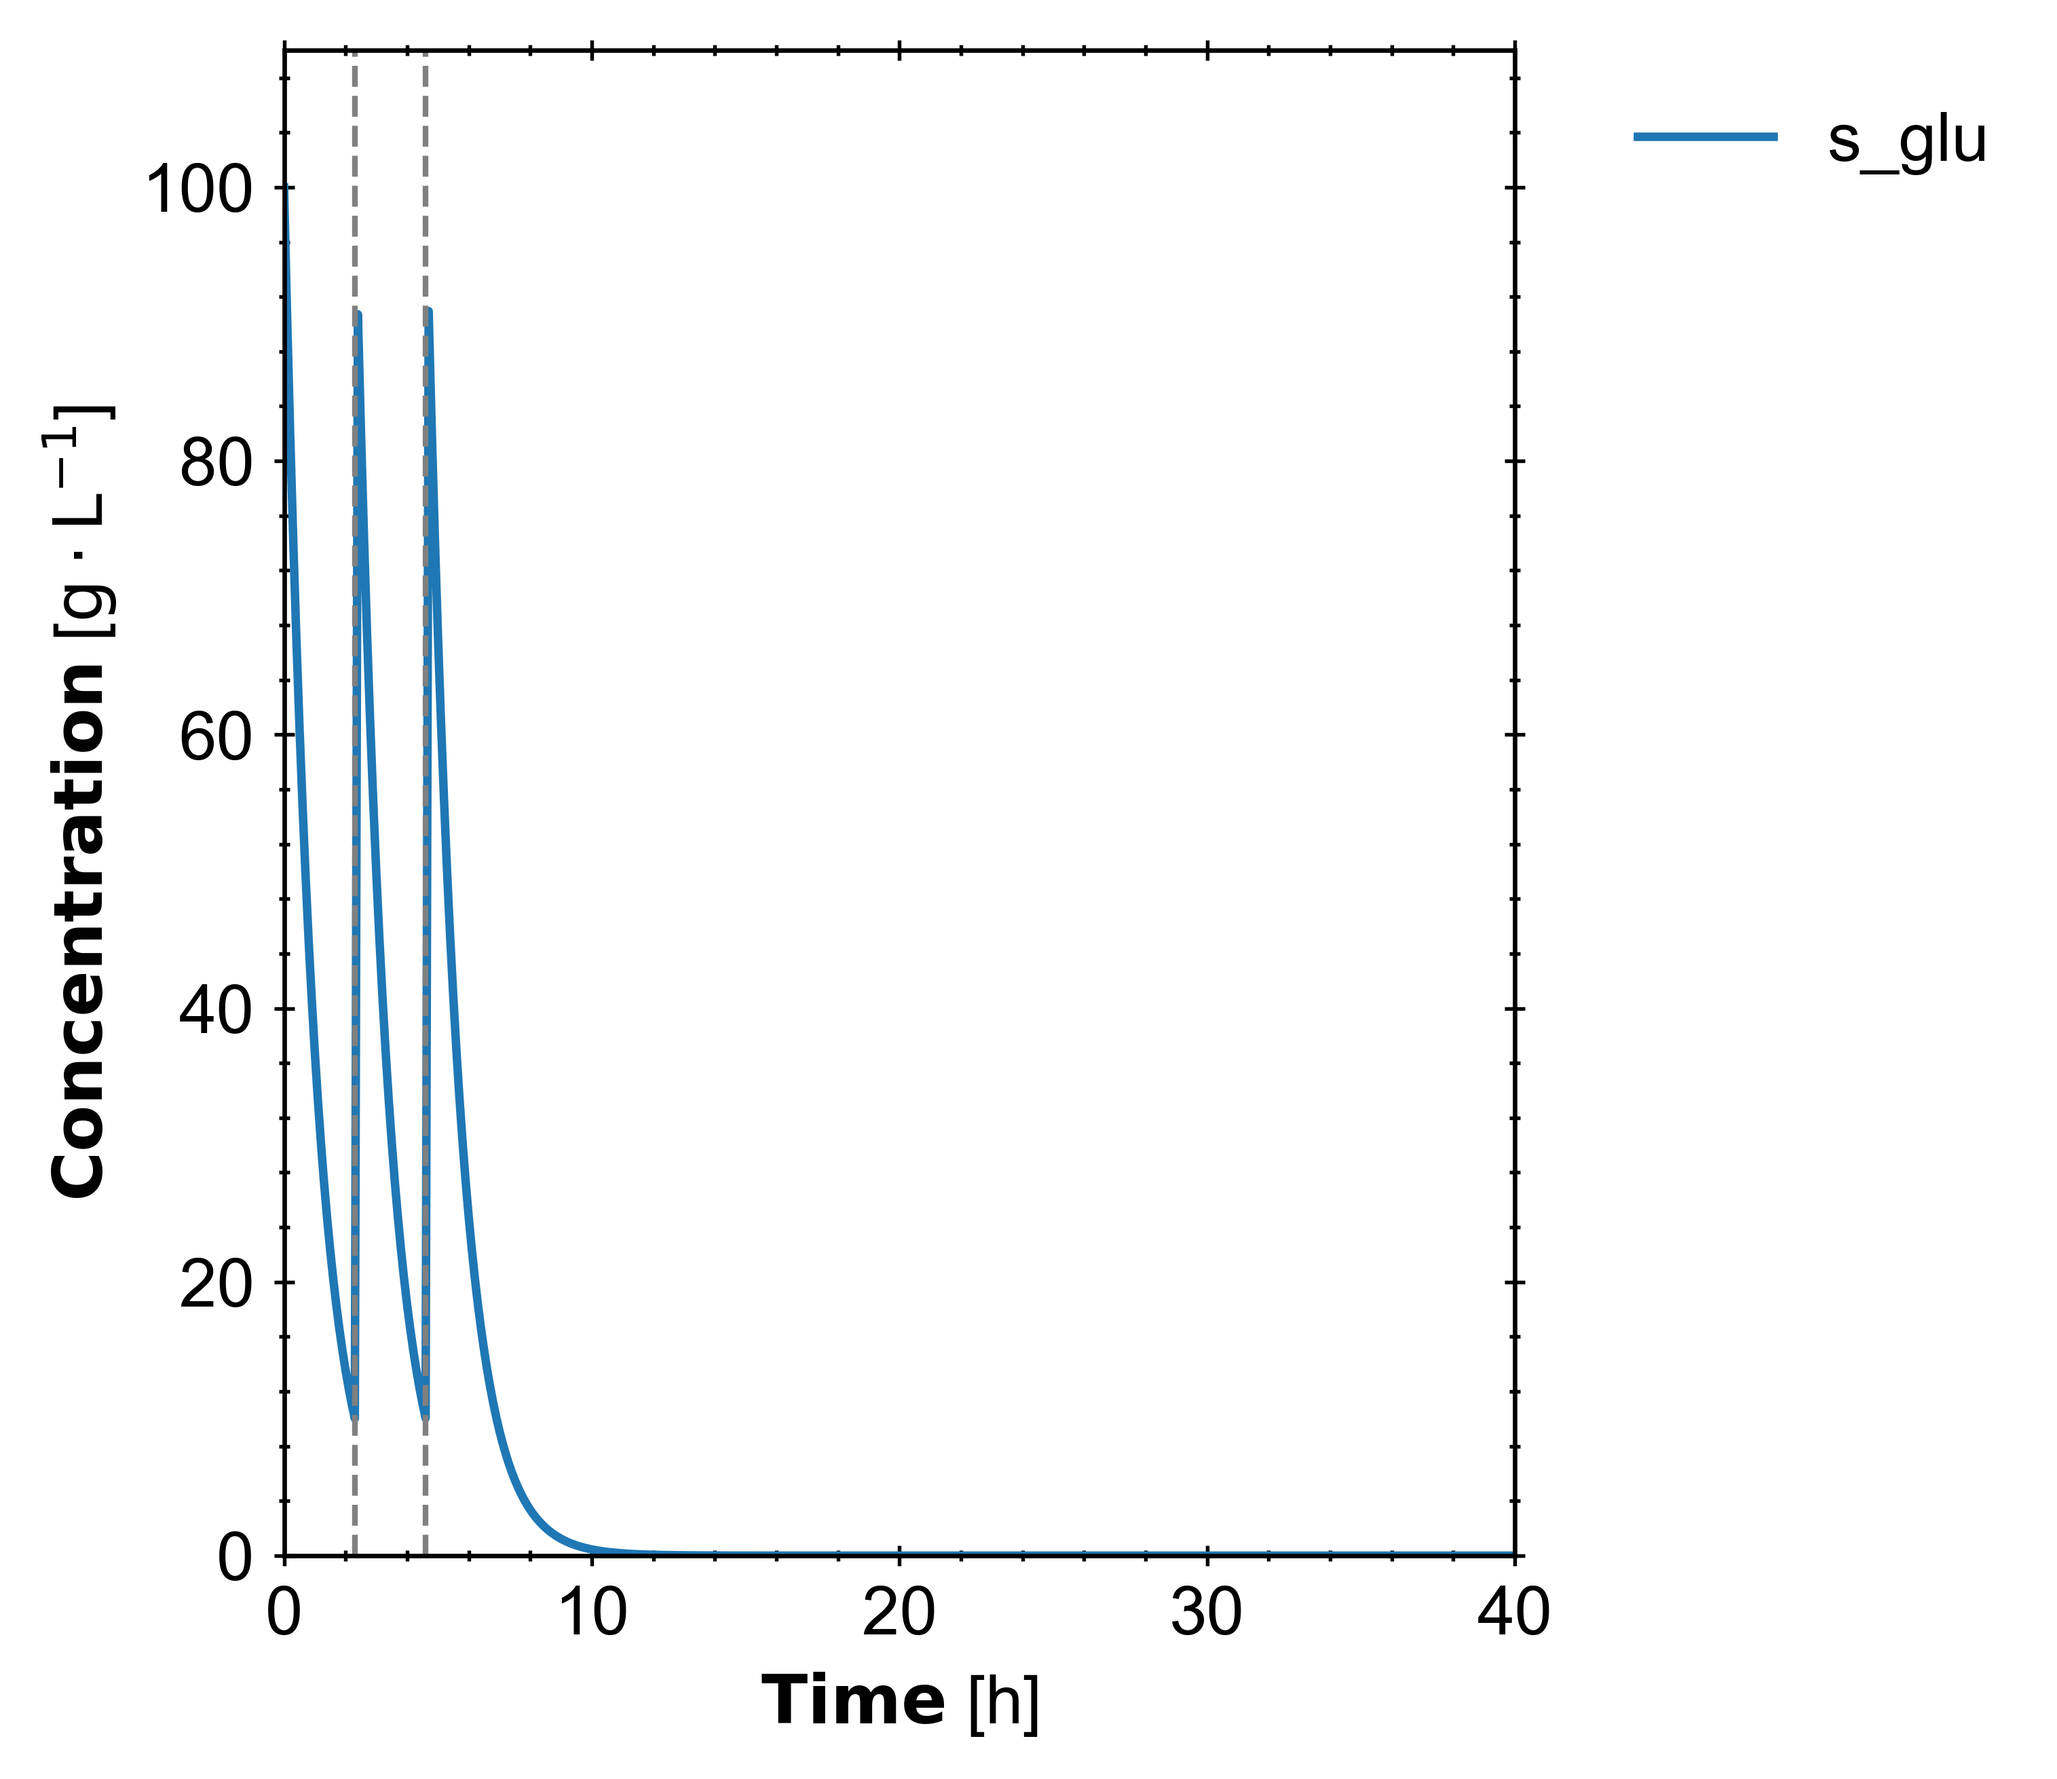
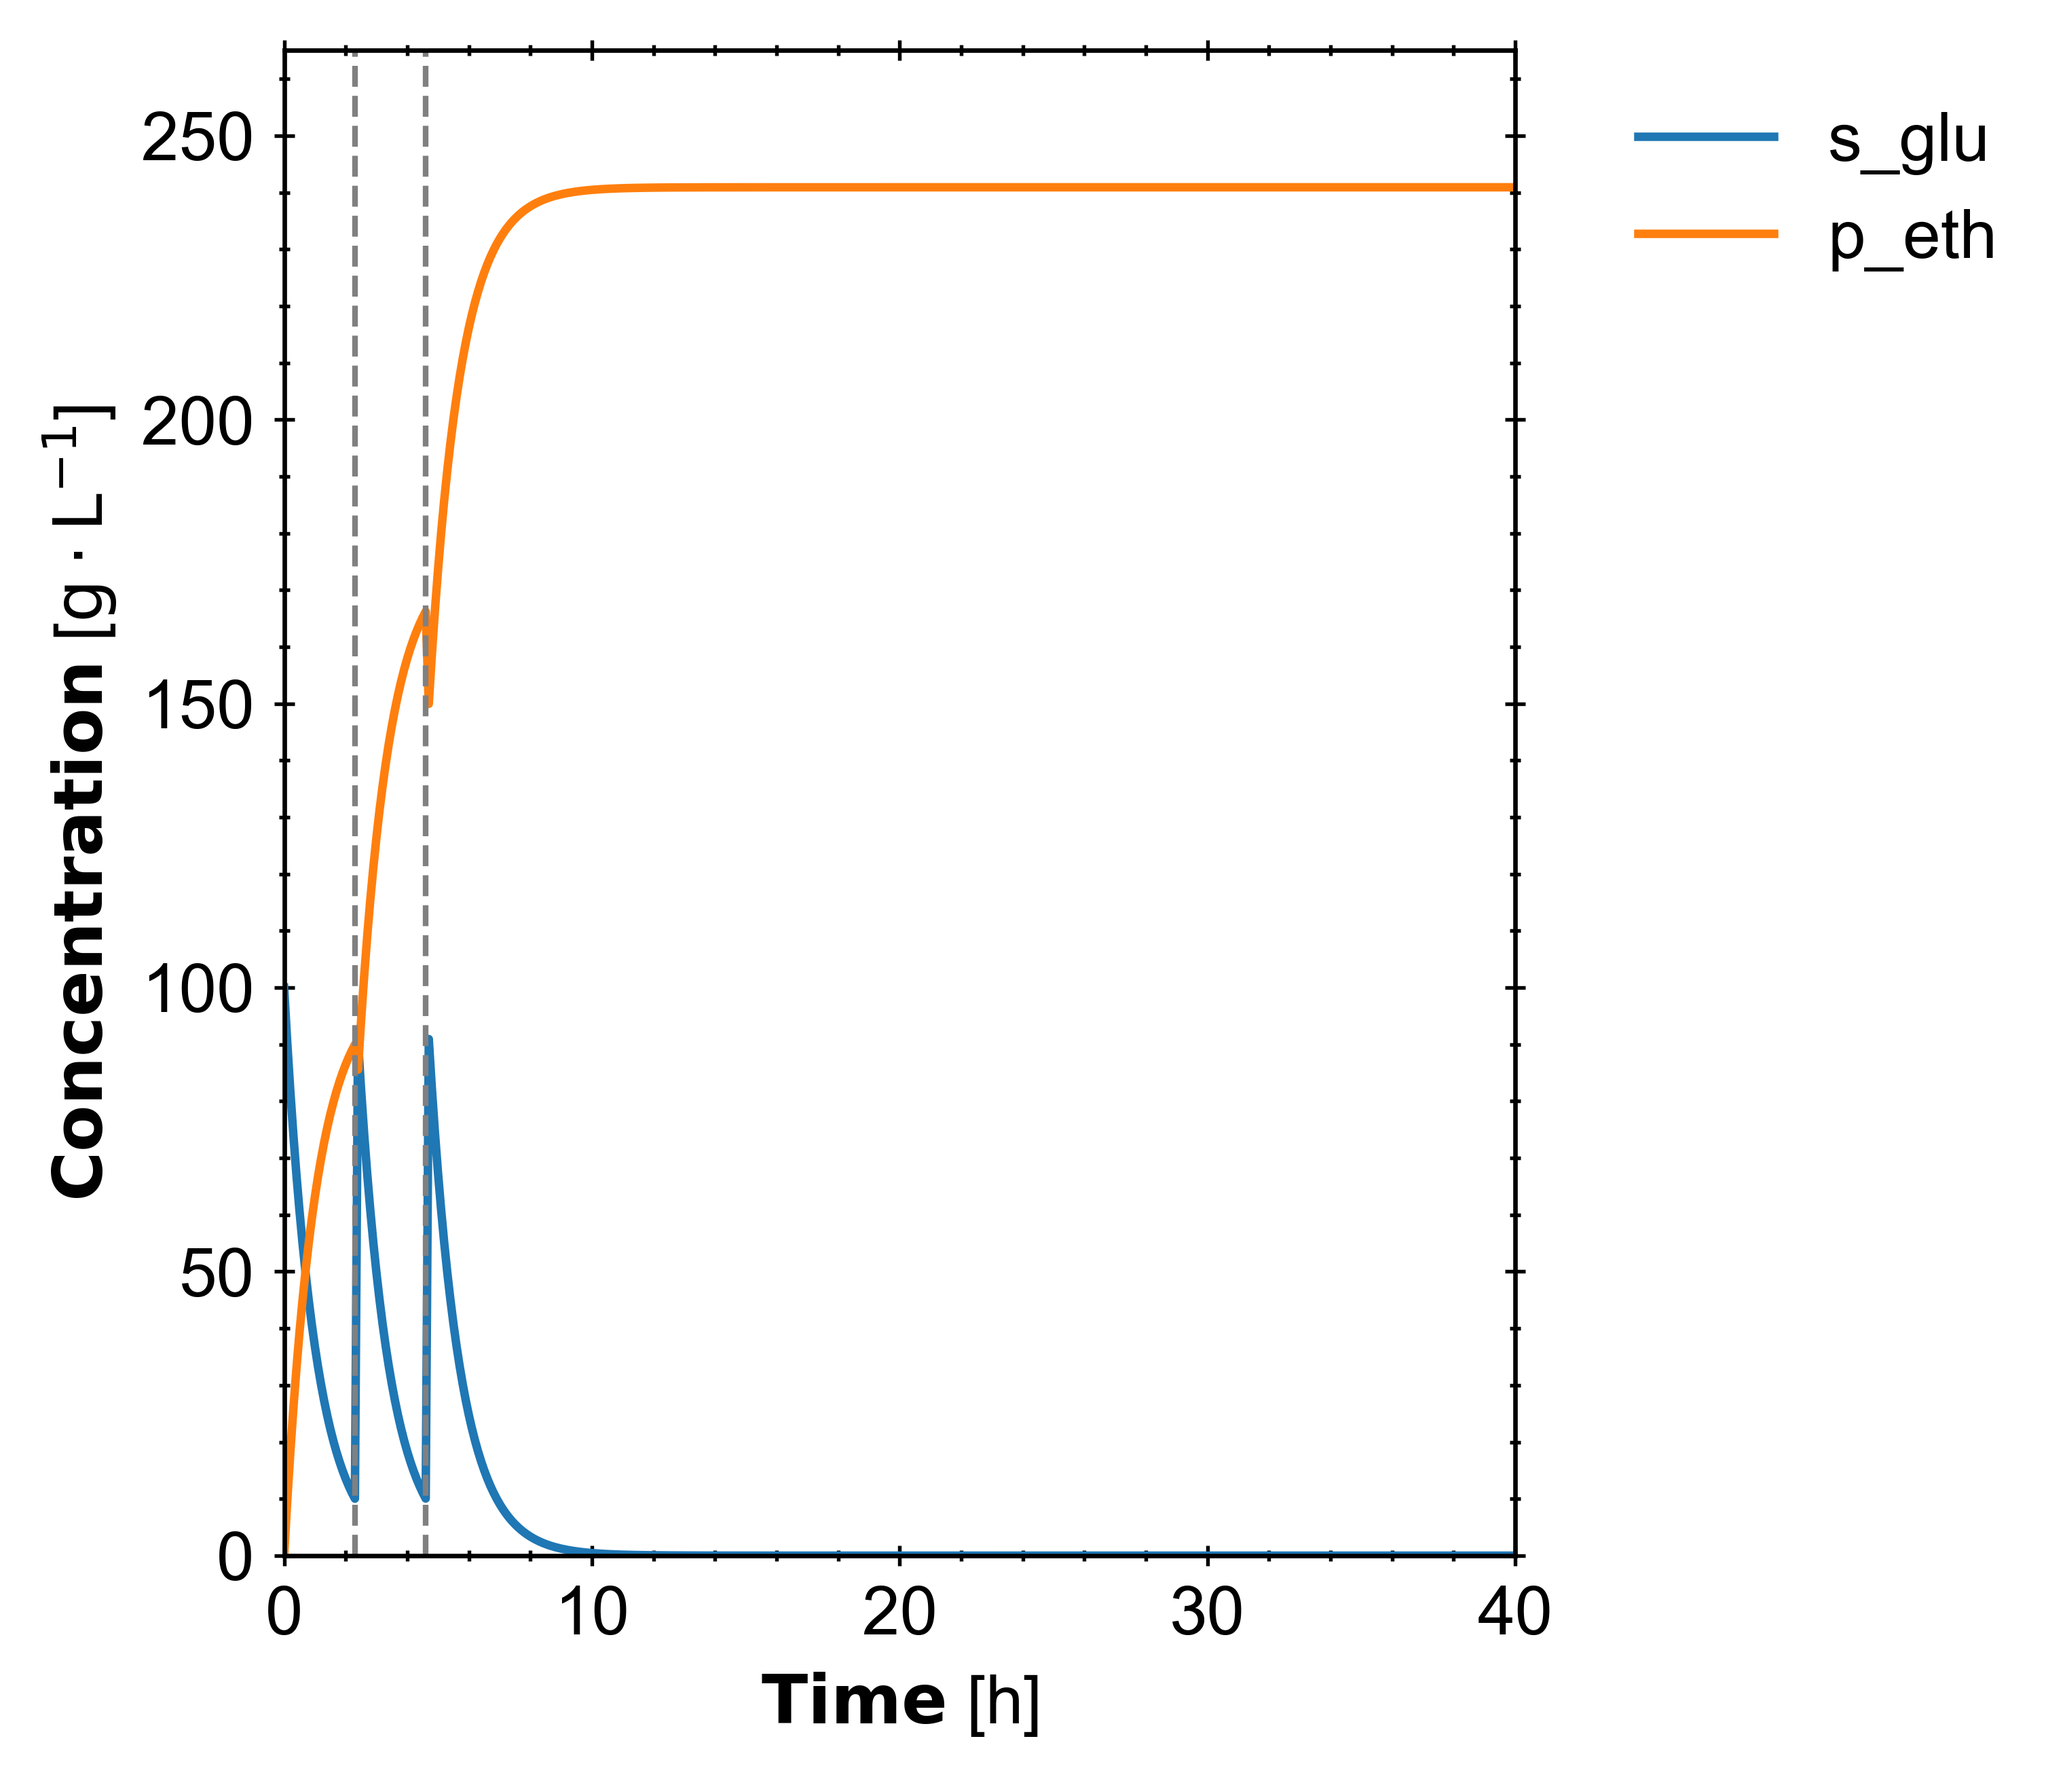
docs: convert tutorial 04 fed-batch model to substrate -> product
The fed-batch example modeled s_glu as decaying into nothing via the rate
rule s_glu' = -k*s_glu. Replace it with an explicit mass-action reaction
J: s_glu => p_eth, so the substrate the spikes feed in is conserved as
product rather than vanishing.

This makes the fed-batch mass balance checkable: p_eth ends at ~240.9 g/L,
matching the 335.4 g of substrate charged (100 g initial + two 600 g/L
feeds) over the final 1.392 L working volume. It also gives a second,
independent read on the a/b/c event ordering -- p_eth is untouched by all
three events, so its concentration drop at each spike (89.974 -> 77.01
g/L) is pure dilution, confirming b grew the volume before c set s_glu.

The [s_glu] and env trajectories are unchanged. Figure ii still plots only
[s_glu] and env, since p_eth's ~241 g/L range would flatten the
working-volume trace; figure i gains the p_eth curve. All printed outputs
re-run and updated verbatim.

diff --git a/docs/source/tutorial/04_fed_batch_feeding.rst b/docs/source/tutorial/04_fed_batch_feeding.rst
@@ -81,12 +81,12 @@ directly into the same ``add_event``/``compile_events`` workflow from
 
    model = """
    model spiker()
-     compartment env; species s_glu in env;
-     s_glu = 100; env = 1; k = 1;
+     compartment env; species s_glu in env, p_eth in env;
+     s_glu = 100; p_eth = 0; env = 1; k = 1;
      threshold = 10; target = 100; feed_conc = 600;
      n_spk = 0; n_max = 2; last_vol = 0; tot_vol = 0; dly = 0;
      n_spk has dimensionless; n_max has dimensionless;
-     s_glu' = -k*s_glu;
+     J: s_glu => p_eth; k*s_glu*env;
    end
    """
    r = te.loadAntimonyModel(model)
@@ -100,48 +100,70 @@ directly into the same ``add_event``/``compile_events`` workflow from
        trs.add_event(e)
    trs.compile_events()
    trs.reset()
-   res = trs.simulate(0, 40, 401, ['time', '[s_glu]', 'n_spk'])
-   print('max spikes:', res[:, 2].max(), 'final s_glu:', res[-1, 1])
-   trs.plot_simulation_results(labels=['s_glu'],
+   res = trs.simulate(0, 40, 401, ['time', '[s_glu]', '[p_eth]', 'n_spk'])
+   print('max spikes:', res[:, 3].max(), 'final s_glu:', res[-1, 1],
+         'final p_eth:', res[-1, 2])
+   trs.plot_simulation_results(variables=['[s_glu]', '[p_eth]'],
+                               labels=['s_glu', 'p_eth'],
                                markers=[(2.3, 'spike'), (4.6, 'spike')])
 
-The model starts ``s_glu`` at 100 g/L, decaying at ``k=1``; it will cross
-the ``threshold`` of 10 g/L repeatedly over 40 h, but ``max_count=2``
-(``n_max``) caps it at two spikes. Note that ``max_count``/``count_var``
-are passed as the *model-parameter names* ``'n_max'``/``'n_spk'`` here, not
-Python numbers — ``FeedSpike`` folds them into the trigger expression as
-text, so a plain float works equally well.
+The model starts ``s_glu`` at 100 g/L and converts it to product ``p_eth``
+through the mass-action reaction ``J: s_glu => p_eth`` at ``k=1``. Writing
+it as a *reaction* rather than a rate rule is what makes the 1:1
+stoichiometry explicit: every gram of substrate consumed appears as a gram
+of product, so ``p_eth`` is a running record of everything the spikes have
+fed in. ``s_glu`` will cross the ``threshold`` of 10 g/L repeatedly over
+40 h, but ``max_count=2`` (``n_max``) caps it at two spikes. Note that
+``max_count``/``count_var`` are passed as the *model-parameter names*
+``'n_max'``/``'n_spk'`` here, not Python numbers — ``FeedSpike`` folds them
+into the trigger expression as text, so a plain float works equally well.
 
 Running this in the ``HP_2024`` environment prints:
 
 .. code-block:: text
 
-   max spikes: 2.0 final s_glu: -6.19487843009339e-12
+   max spikes: 2.0 final s_glu: -5.060339805135531e-11 final p_eth: 240.90778511926948
 
 .. figure:: /_static/images/examples/tutorial_04_fed_batch_i.png
    :width: 400
 
-   Two feed spikes (dashed lines) refill ``s_glu`` to ~100 g/L; after the
-   ``n_max=2`` cap it decays to ~0.
+   Two feed spikes (dashed lines) refill ``s_glu`` to ~100 g/L, each one
+   feeding another batch of substrate into ``p_eth``; after the ``n_max=2``
+   cap the remaining ``s_glu`` is converted and ``p_eth`` levels off at
+   ~241 g/L. The small drop in ``p_eth`` at each spike is dilution by the
+   feed volume, not product disappearing.
 
 ``max spikes: 2.0`` confirms the cap was reached — exactly two spikes
 fired, matching ``n_max=2``. After the second spike, no further trigger
-fires (the ``count_var < max_count`` guard is false), so ``s_glu`` decays
-freely under ``s_glu' = -k*s_glu`` for the rest of the 40 h window; by
-``t=40`` it has decayed to ``-6.19e-12`` g/L — zero within floating-point
-noise, and well below the 10 g/L ``threshold`` it would otherwise have
-re-triggered a spike at, had the cap not been reached.
+fires (the ``count_var < max_count`` guard is false), so the remaining
+``s_glu`` is simply converted to ``p_eth`` over the rest of the 40 h
+window; by ``t=40`` the substrate is down to ``-5.06e-11`` g/L — zero
+within floating-point noise, and well below the 10 g/L ``threshold`` it
+would otherwise have re-triggered a spike at, had the cap not been reached.
+
+The final ``p_eth`` of ``~240.9`` g/L is the whole fed-batch mass balance
+in one number. Three charges of substrate enter the reactor: the initial
+100 g in 1 L, then ``0.18 L × 600 g/L = 108 g`` at the first spike and
+``0.212 L × 600 g/L = 127.4 g`` at the second — 335.4 g of substrate
+total, ending in a working volume of 1.392 L. With 1:1 stoichiometry and
+essentially complete conversion, that is
+``335.4 / 1.392 ≈ 240.9`` g/L of product, exactly what the simulation
+reports. Note that this is *higher* than the 100 g/L ``target``
+concentration ever reached: product accumulates across spikes while
+substrate is held near a fixed setpoint, which is the entire reason
+fed-batch operation is used.
 
 Seeing ``a``/``b``/``c`` fire
 --------------------------------
 
-Requesting the bracketed (concentration) selector ``'[s_glu]'`` alongside
-the working volume ``'env'`` at a finer time resolution shows the
-mechanism directly — each spike snaps the concentration back up near
-``target`` while ``env`` grows by the volume ``a`` computed. This rebuilds
-the same setup from scratch and simulates it **once**, rather than
-re-simulating the ``r``/``trs`` from the block above (see the note below
-for why):
+Requesting the bracketed (concentration) selectors ``'[s_glu]'`` and
+``'[p_eth]'`` alongside the working volume ``'env'`` at a finer time
+resolution shows the mechanism directly — each spike snaps the substrate
+concentration back up near ``target`` while ``env`` grows by the volume
+``a`` computed, and ``[p_eth]`` dips by exactly the corresponding dilution
+factor. This rebuilds the same setup from scratch and simulates it
+**once**, rather than re-simulating the ``r``/``trs`` from the block above
+(see the note below for why):
 
 .. code-block:: python
 
@@ -149,12 +171,12 @@ for why):
 
    model = """
    model spiker()
-     compartment env; species s_glu in env;
-     s_glu = 100; env = 1; k = 1;
+     compartment env; species s_glu in env, p_eth in env;
+     s_glu = 100; p_eth = 0; env = 1; k = 1;
      threshold = 10; target = 100; feed_conc = 600;
      n_spk = 0; n_max = 2; last_vol = 0; tot_vol = 0; dly = 0;
      n_spk has dimensionless; n_max has dimensionless;
-     s_glu' = -k*s_glu;
+     J: s_glu => p_eth; k*s_glu*env;
    end
    """
    r = te.loadAntimonyModel(model)
@@ -168,8 +190,8 @@ for why):
        trs.add_event(e)
    trs.compile_events()
    trs.reset()
-   res = trs.simulate(0, 40, 4001, ['time', '[s_glu]', 'env', 'n_spk'])
-   changes = np.where(np.diff(res[:, 3]) > 0)[0]
+   res = trs.simulate(0, 40, 4001, ['time', '[s_glu]', '[p_eth]', 'env', 'n_spk'])
+   changes = np.where(np.diff(res[:, 4]) > 0)[0]
    for i in changes:
        print(res[i], '->', res[i + 1])
 
@@ -177,8 +199,11 @@ prints:
 
 .. code-block:: text
 
-   [2.3   10.026  1.     0.   ] -> [2.31 99.26  1.18  1.  ]
-   [4.6   10.052  1.18   1.   ] -> [4.61  99.515  1.392  2.   ]
+   [ 2.3   10.026 89.974  1.     0.   ] -> [ 2.31  99.262 77.01   1.18   1.   ]
+   [  4.6    10.052 166.219   1.18    1.   ] -> [  4.61   99.519 141.389   1.392   2.   ]
+
+The plot keeps to ``[s_glu]`` and ``env``, since ``[p_eth]`` runs up to
+~241 g/L and would flatten the working-volume trace out of readability:
 
 .. code-block:: python
 
@@ -215,13 +240,26 @@ prints:
 At the first spike (between ``t=2.3`` and ``t=2.31`` h), ``[s_glu]`` jumps
 from just under the 10 g/L threshold back up to about ``99.26`` g/L —
 close to ``target=100`` (the small gap is because the trigger actually
-fires a moment before ``t=2.31``, and ``s_glu`` had already decayed a
+fires a moment before ``t=2.31``, and ``s_glu`` had already been consumed a
 little further by the time this row was recorded) — while ``env`` grows
 from ``1.0`` to ``1.18``, matching ``a``'s formula:
 ``1*(100 - 10.026)/(600 - 100) ≈ 0.18``. The second spike repeats the same
 pattern from a slightly different starting concentration, growing ``env``
 from ``1.18`` to about ``1.392``. No third spike occurs, consistent with
 ``max_count=2``.
+
+``[p_eth]`` makes the volume update visible from the other side. Event
+**c** assigns only ``s_glu``; ``p_eth`` is never touched by any of the
+three events, so its *amount* carries straight through the spike and only
+its *concentration* changes — ``89.974`` g/L drops to ``77.01`` g/L across
+the first spike as the same product mass is spread over the now-larger
+working volume. This is the clearest confirmation that **b** really did
+grow ``volume_var`` before **c** ran: had the events fired in the other
+order, ``s_glu`` would have been set to ``target`` in the *old* volume and
+then diluted along with ``p_eth``, landing well short of 100 g/L. Checking
+total mass at ``t=2.31`` confirms the bookkeeping —
+``(99.262 + 77.01) g/L × 1.18 L ≈ 208 g``, exactly the 100 g charged
+initially plus the ``0.18 L × 600 g/L = 108 g`` the spike added.
 
 Next: :doc:`05_real_model` puts this together in a real, shipped fed-batch
 *S. cerevisiae* fermentation model.
